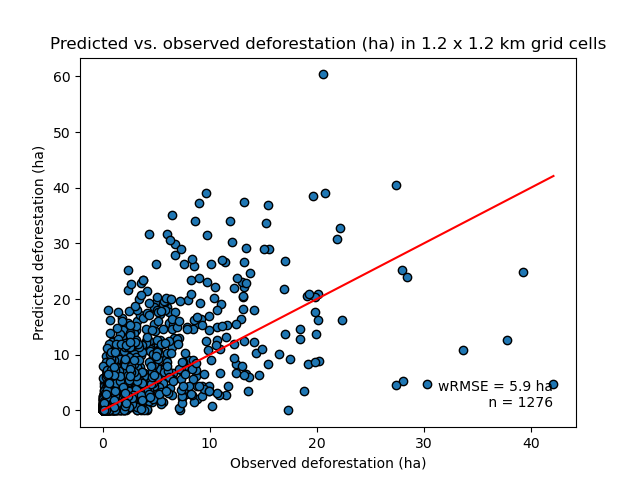
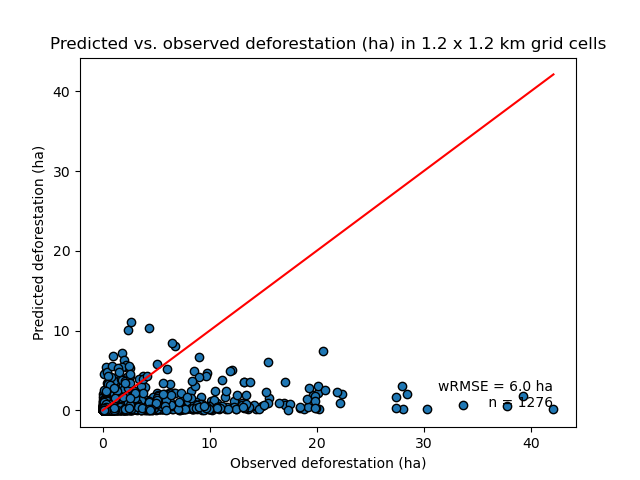
Correction defor rate website

diff --git a/docs/_modules/riskmapjnr/local_defor_rate.html b/docs/_modules/riskmapjnr/local_defor_rate.html
@@ -1,7 +1,7 @@
 
 <!DOCTYPE html>
 
-<html lang="en">
+<html>
   <head>
     <meta charset="utf-8" />
     <meta name="viewport" content="width=device-width, initial-scale=1.0" />
@@ -11,9 +11,7 @@
     <script data-url_root="../../" id="documentation_options" src="../../_static/documentation_options.js"></script>
     <script src="../../_static/jquery.js"></script>
     <script src="../../_static/underscore.js"></script>
-    <script src="../../_static/_sphinx_javascript_frameworks_compat.js"></script>
     <script src="../../_static/doctools.js"></script>
-    <script crossorigin="anonymous" integrity="sha256-Ae2Vz/4ePdIu6ZyI/5ZGsYnb+m0JlOmKPjt6XZ9JJkA=" src="https://cdnjs.cloudflare.com/ajax/libs/require.js/2.3.4/require.min.js"></script>
     <link rel="shortcut icon" href="../../_static/favicon.ico"/>
     <link rel="index" title="Index" href="../../genindex.html" />
     <link rel="search" title="Search" href="../../search.html" />
@@ -57,6 +55,7 @@
 <ul>
 <li class="toctree-l1"><a class="reference internal" href="../../index.html">Home</a></li>
 <li class="toctree-l1"><a class="reference internal" href="../../notebooks/get_started.html">Get Started</a></li>
+<li class="toctree-l1"><a class="reference internal" href="../../articles.html">Articles</a></li>
 <li class="toctree-l1"><a class="reference internal" href="../../reference.html">Python API</a></li>
 <li class="toctree-l1"><a class="reference internal" href="../../indices.html">Indices and tables</a></li>
 <li class="toctree-l1"><a class="reference internal" href="../../changelog.html">Changelog</a></li>
@@ -81,7 +80,7 @@
     </form>
     </div>
 </div>
-<script>document.getElementById('searchbox').style.display = "block"</script>
+<script>$('#searchbox').show(0);</script>
 
 
 
@@ -121,7 +120,7 @@
 
 
 <span class="c1"># local_defor_rate</span>
-<div class="viewcode-block" id="local_defor_rate"><a class="viewcode-back" href="../../reference.html#riskmapjnr.local_defor_rate.local_defor_rate">[docs]</a><span class="k">def</span> <span class="nf">local_defor_rate</span><span class="p">(</span><span class="n">fcc_file</span><span class="p">,</span> <span class="n">defor_values</span><span class="p">,</span> <span class="n">ldefrate_file</span><span class="p">,</span> <span class="n">win_size</span><span class="p">,</span>
+<div class="viewcode-block" id="local_defor_rate"><a class="viewcode-back" href="../../reference.html#riskmapjnr.local_defor_rate">[docs]</a><span class="k">def</span> <span class="nf">local_defor_rate</span><span class="p">(</span><span class="n">fcc_file</span><span class="p">,</span> <span class="n">defor_values</span><span class="p">,</span> <span class="n">ldefrate_file</span><span class="p">,</span> <span class="n">win_size</span><span class="p">,</span>
                      <span class="n">time_interval</span><span class="p">,</span> <span class="n">blk_rows</span><span class="o">=</span><span class="mi">128</span><span class="p">,</span> <span class="n">verbose</span><span class="o">=</span><span class="kc">True</span><span class="p">):</span>
     <span class="sd">&quot;&quot;&quot;Computing the local deforestation rate using a moving window.</span>
 
@@ -219,26 +218,29 @@
 
         <span class="c1"># Read block data</span>
         <span class="n">in_data</span> <span class="o">=</span> <span class="n">in_band</span><span class="o">.</span><span class="n">ReadAsArray</span><span class="p">(</span><span class="mi">0</span><span class="p">,</span> <span class="n">yoff</span><span class="p">,</span> <span class="n">xsize</span><span class="p">,</span> <span class="n">rows</span><span class="p">)</span>
-        <span class="c1"># defor (during first period)</span>
+        <span class="c1"># defor (during period)</span>
         <span class="n">defor_data</span> <span class="o">=</span> <span class="n">np</span><span class="o">.</span><span class="n">zeros</span><span class="p">(</span><span class="n">in_data</span><span class="o">.</span><span class="n">shape</span><span class="p">,</span> <span class="nb">int</span><span class="p">)</span>
         <span class="n">defor_data</span><span class="p">[</span><span class="n">np</span><span class="o">.</span><span class="n">isin</span><span class="p">(</span><span class="n">in_data</span><span class="p">,</span> <span class="n">defor_values</span><span class="p">)]</span> <span class="o">=</span> <span class="mi">1</span>
-        <span class="n">win_defor</span> <span class="o">=</span> <span class="n">scipy</span><span class="o">.</span><span class="n">ndimage</span><span class="o">.</span><span class="n">filters</span><span class="o">.</span><span class="n">uniform_filter</span><span class="p">(</span>
+        <span class="c1"># Use uniform filter to get the mean then multiply to obtain the sum</span>
+        <span class="n">win_defor</span> <span class="o">=</span> <span class="n">scipy</span><span class="o">.</span><span class="n">ndimage</span><span class="o">.</span><span class="n">uniform_filter</span><span class="p">(</span>
             <span class="n">defor_data</span><span class="p">,</span> <span class="n">size</span><span class="o">=</span><span class="n">win_size</span><span class="p">,</span> <span class="n">mode</span><span class="o">=</span><span class="s2">&quot;constant&quot;</span><span class="p">,</span> <span class="n">cval</span><span class="o">=</span><span class="mi">0</span><span class="p">,</span>
-            <span class="n">output</span><span class="o">=</span><span class="nb">float</span><span class="p">)</span>
+            <span class="n">output</span><span class="o">=</span><span class="nb">float</span><span class="p">)</span> <span class="o">*</span> <span class="p">(</span><span class="n">win_size</span> <span class="o">**</span> <span class="mi">2</span><span class="p">)</span>
+        <span class="c1"># Round to nearest inter to remove approximation due to float precision</span>
+        <span class="n">win_defor</span> <span class="o">=</span> <span class="n">np</span><span class="o">.</span><span class="n">rint</span><span class="p">(</span><span class="n">win_defor</span><span class="p">)</span><span class="o">.</span><span class="n">astype</span><span class="p">(</span><span class="nb">int</span><span class="p">)</span>
         <span class="c1"># for (start of first period)</span>
         <span class="n">for_data</span> <span class="o">=</span> <span class="n">np</span><span class="o">.</span><span class="n">zeros</span><span class="p">(</span><span class="n">in_data</span><span class="o">.</span><span class="n">shape</span><span class="p">,</span> <span class="nb">int</span><span class="p">)</span>
         <span class="n">w</span> <span class="o">=</span> <span class="n">np</span><span class="o">.</span><span class="n">where</span><span class="p">(</span><span class="n">in_data</span> <span class="o">&gt;</span> <span class="mi">0</span><span class="p">)</span>
         <span class="n">for_data</span><span class="p">[</span><span class="n">w</span><span class="p">]</span> <span class="o">=</span> <span class="mi">1</span>
-        <span class="n">win_for</span> <span class="o">=</span> <span class="n">scipy</span><span class="o">.</span><span class="n">ndimage</span><span class="o">.</span><span class="n">filters</span><span class="o">.</span><span class="n">uniform_filter</span><span class="p">(</span>
+        <span class="c1"># Use uniform filter to get the mean then multiply to obtain the sum</span>
+        <span class="n">win_for</span> <span class="o">=</span> <span class="n">scipy</span><span class="o">.</span><span class="n">ndimage</span><span class="o">.</span><span class="n">uniform_filter</span><span class="p">(</span>
             <span class="n">for_data</span><span class="p">,</span> <span class="n">size</span><span class="o">=</span><span class="n">win_size</span><span class="p">,</span> <span class="n">mode</span><span class="o">=</span><span class="s2">&quot;constant&quot;</span><span class="p">,</span> <span class="n">cval</span><span class="o">=</span><span class="mi">0</span><span class="p">,</span>
-            <span class="n">output</span><span class="o">=</span><span class="nb">float</span><span class="p">)</span>
-        <span class="c1"># percentage</span>
+            <span class="n">output</span><span class="o">=</span><span class="nb">float</span><span class="p">)</span> <span class="o">*</span> <span class="p">(</span><span class="n">win_size</span> <span class="o">**</span> <span class="mi">2</span><span class="p">)</span>
+        <span class="c1"># Round to nearest inter to remove approximation due to float precision</span>
+        <span class="n">win_for</span> <span class="o">=</span> <span class="n">np</span><span class="o">.</span><span class="n">rint</span><span class="p">(</span><span class="n">win_for</span><span class="p">)</span><span class="o">.</span><span class="n">astype</span><span class="p">(</span><span class="nb">int</span><span class="p">)</span>
+        <span class="c1"># Annual deforestation rate</span>
         <span class="n">out_data</span> <span class="o">=</span> <span class="n">np</span><span class="o">.</span><span class="n">ones</span><span class="p">(</span><span class="n">in_data</span><span class="o">.</span><span class="n">shape</span><span class="p">,</span> <span class="nb">int</span><span class="p">)</span> <span class="o">*</span> <span class="mi">65535</span>
-        <span class="c1"># w = np.where(win_for &gt;= (1 / win_size ** 2))</span>
-        <span class="c1"># w = np.where(win_for &gt; np.finfo(float).eps)</span>
-        <span class="n">out_data</span><span class="p">[</span><span class="n">w</span><span class="p">]</span> <span class="o">=</span> <span class="n">np</span><span class="o">.</span><span class="n">rint</span><span class="p">(</span><span class="mi">10000</span> <span class="o">*</span> <span class="p">(</span><span class="mi">1</span> <span class="o">-</span> <span class="p">(</span><span class="mi">1</span> <span class="o">-</span> <span class="n">win_defor</span><span class="p">[</span><span class="n">w</span><span class="p">]</span> <span class="o">/</span> <span class="n">win_for</span><span class="p">[</span><span class="n">w</span><span class="p">])</span> <span class="o">**</span>
-                                       <span class="n">time_interval</span><span class="p">))</span><span class="o">.</span><span class="n">astype</span><span class="p">(</span><span class="nb">int</span><span class="p">)</span>
-
+        <span class="n">theta</span> <span class="o">=</span> <span class="mi">1</span> <span class="o">-</span> <span class="p">(</span><span class="mi">1</span> <span class="o">-</span> <span class="n">win_defor</span><span class="p">[</span><span class="n">w</span><span class="p">]</span> <span class="o">/</span> <span class="n">win_for</span><span class="p">[</span><span class="n">w</span><span class="p">])</span> <span class="o">**</span> <span class="p">(</span><span class="mi">1</span> <span class="o">/</span> <span class="n">time_interval</span><span class="p">)</span>
+        <span class="n">out_data</span><span class="p">[</span><span class="n">w</span><span class="p">]</span> <span class="o">=</span> <span class="n">np</span><span class="o">.</span><span class="n">rint</span><span class="p">(</span><span class="mi">10000</span> <span class="o">*</span> <span class="n">theta</span><span class="p">)</span><span class="o">.</span><span class="n">astype</span><span class="p">(</span><span class="nb">int</span><span class="p">)</span>
         <span class="k">if</span> <span class="n">yoff</span> <span class="o">==</span> <span class="mi">0</span><span class="p">:</span>
             <span class="n">out_band</span><span class="o">.</span><span class="n">WriteArray</span><span class="p">(</span><span class="n">out_data</span><span class="p">)</span>
         <span class="k">else</span><span class="p">:</span>
@@ -274,7 +276,7 @@
       &copy;2022, Ghislain Vieilledent.
       
       |
-      Powered by <a href="http://sphinx-doc.org/">Sphinx 5.0.1</a>
+      Powered by <a href="http://sphinx-doc.org/">Sphinx 4.5.0</a>
       &amp; <a href="https://github.com/bitprophet/alabaster">Alabaster 0.7.12</a>
       
     </div>

diff --git a/docs/_modules/riskmapjnr/validation.html b/docs/_modules/riskmapjnr/validation.html
@@ -1,7 +1,7 @@
 
 <!DOCTYPE html>
 
-<html lang="en">
+<html>
   <head>
     <meta charset="utf-8" />
     <meta name="viewport" content="width=device-width, initial-scale=1.0" />
@@ -11,9 +11,7 @@
     <script data-url_root="../../" id="documentation_options" src="../../_static/documentation_options.js"></script>
     <script src="../../_static/jquery.js"></script>
     <script src="../../_static/underscore.js"></script>
-    <script src="../../_static/_sphinx_javascript_frameworks_compat.js"></script>
     <script src="../../_static/doctools.js"></script>
-    <script crossorigin="anonymous" integrity="sha256-Ae2Vz/4ePdIu6ZyI/5ZGsYnb+m0JlOmKPjt6XZ9JJkA=" src="https://cdnjs.cloudflare.com/ajax/libs/require.js/2.3.4/require.min.js"></script>
     <link rel="shortcut icon" href="../../_static/favicon.ico"/>
     <link rel="index" title="Index" href="../../genindex.html" />
     <link rel="search" title="Search" href="../../search.html" />
@@ -57,6 +55,7 @@
 <ul>
 <li class="toctree-l1"><a class="reference internal" href="../../index.html">Home</a></li>
 <li class="toctree-l1"><a class="reference internal" href="../../notebooks/get_started.html">Get Started</a></li>
+<li class="toctree-l1"><a class="reference internal" href="../../articles.html">Articles</a></li>
 <li class="toctree-l1"><a class="reference internal" href="../../reference.html">Python API</a></li>
 <li class="toctree-l1"><a class="reference internal" href="../../indices.html">Indices and tables</a></li>
 <li class="toctree-l1"><a class="reference internal" href="../../changelog.html">Changelog</a></li>
@@ -81,7 +80,7 @@
     </form>
     </div>
 </div>
-<script>document.getElementById('searchbox').style.display = "block"</script>
+<script>$('#searchbox').show(0);</script>
 
 
 
@@ -147,7 +146,7 @@
 <span class="sd">        period. No data value must be 0 (zero).</span>
 
 <span class="sd">    :param time_interval: Time interval (in years) for forest cover</span>
-<span class="sd">        change observations.</span>
+<span class="sd">        change observations during the **validation** period.</span>
 
 <span class="sd">    :param riskmap_file: Input raster file with categories of</span>
 <span class="sd">        spatial deforestation risk. This file is typically obtained</span>
@@ -256,8 +255,12 @@
             <span class="n">x</span><span class="p">[</span><span class="n">px</span><span class="p">],</span> <span class="n">y</span><span class="p">[</span><span class="n">py</span><span class="p">],</span> <span class="n">nx</span><span class="p">[</span><span class="n">px</span><span class="p">],</span> <span class="n">ny</span><span class="p">[</span><span class="n">py</span><span class="p">])</span>
         <span class="n">defor_cat</span> <span class="o">=</span> <span class="n">pd</span><span class="o">.</span><span class="n">Categorical</span><span class="p">(</span><span class="n">defor_cat_data</span><span class="o">.</span><span class="n">flatten</span><span class="p">(),</span> <span class="n">categories</span><span class="o">=</span><span class="n">cat</span><span class="p">)</span>
         <span class="n">defor_cat_count</span> <span class="o">=</span> <span class="n">defor_cat</span><span class="o">.</span><span class="n">value_counts</span><span class="p">()</span><span class="o">.</span><span class="n">values</span>
+        <span class="c1"># Deforestation rate on validation period</span>
+        <span class="n">defrate_per_cat_period</span> <span class="o">=</span> <span class="p">(</span>
+            <span class="mi">1</span> <span class="o">-</span> <span class="p">(</span><span class="mi">1</span> <span class="o">-</span> <span class="n">defrate_per_cat</span><span class="p">[</span><span class="s2">&quot;rate&quot;</span><span class="p">]</span><span class="o">.</span><span class="n">values</span><span class="p">)</span> <span class="o">**</span> <span class="n">time_interval</span><span class="p">)</span>
+        <span class="c1"># Predicted deforestation (area)</span>
         <span class="n">df</span><span class="o">.</span><span class="n">loc</span><span class="p">[</span><span class="n">s</span><span class="p">,</span> <span class="s2">&quot;ndefor_pred&quot;</span><span class="p">]</span> <span class="o">=</span> <span class="n">np</span><span class="o">.</span><span class="n">nansum</span><span class="p">(</span><span class="n">defor_cat_count</span> <span class="o">*</span>
-                                             <span class="n">defrate_per_cat</span><span class="p">[</span><span class="s2">&quot;rate&quot;</span><span class="p">]</span><span class="o">.</span><span class="n">values</span><span class="p">)</span>
+                                             <span class="n">defrate_per_cat_period</span><span class="p">)</span>
         <span class="c1"># Note: np.nansum is used here as some cat might not exist and</span>
         <span class="c1"># have nan for defrate (eg. in the case of Equal Interval).</span>
 
@@ -349,7 +352,7 @@
       &copy;2022, Ghislain Vieilledent.
       
       |
-      Powered by <a href="http://sphinx-doc.org/">Sphinx 5.0.1</a>
+      Powered by <a href="http://sphinx-doc.org/">Sphinx 4.5.0</a>
       &amp; <a href="https://github.com/bitprophet/alabaster">Alabaster 0.7.12</a>
       
     </div>

diff --git a/docs/_modules/riskmapjnr/defrate_per_cat.html b/docs/_modules/riskmapjnr/defrate_per_cat.html
@@ -1,7 +1,7 @@
 
 <!DOCTYPE html>
 
-<html lang="en">
+<html>
   <head>
     <meta charset="utf-8" />
     <meta name="viewport" content="width=device-width, initial-scale=1.0" />
@@ -11,9 +11,7 @@
     <script data-url_root="../../" id="documentation_options" src="../../_static/documentation_options.js"></script>
     <script src="../../_static/jquery.js"></script>
     <script src="../../_static/underscore.js"></script>
-    <script src="../../_static/_sphinx_javascript_frameworks_compat.js"></script>
     <script src="../../_static/doctools.js"></script>
-    <script crossorigin="anonymous" integrity="sha256-Ae2Vz/4ePdIu6ZyI/5ZGsYnb+m0JlOmKPjt6XZ9JJkA=" src="https://cdnjs.cloudflare.com/ajax/libs/require.js/2.3.4/require.min.js"></script>
     <link rel="shortcut icon" href="../../_static/favicon.ico"/>
     <link rel="index" title="Index" href="../../genindex.html" />
     <link rel="search" title="Search" href="../../search.html" />
@@ -57,6 +55,7 @@
 <ul>
 <li class="toctree-l1"><a class="reference internal" href="../../index.html">Home</a></li>
 <li class="toctree-l1"><a class="reference internal" href="../../notebooks/get_started.html">Get Started</a></li>
+<li class="toctree-l1"><a class="reference internal" href="../../articles.html">Articles</a></li>
 <li class="toctree-l1"><a class="reference internal" href="../../reference.html">Python API</a></li>
 <li class="toctree-l1"><a class="reference internal" href="../../indices.html">Indices and tables</a></li>
 <li class="toctree-l1"><a class="reference internal" href="../../changelog.html">Changelog</a></li>
@@ -81,7 +80,7 @@
     </form>
     </div>
 </div>
-<script>document.getElementById('searchbox').style.display = "block"</script>
+<script>$('#searchbox').show(0);</script>
 
 
 
@@ -219,7 +218,7 @@
         <span class="n">df</span><span class="p">[</span><span class="s2">&quot;ndefor&quot;</span><span class="p">]</span> <span class="o">+=</span> <span class="n">cat_defor</span><span class="o">.</span><span class="n">value_counts</span><span class="p">()</span><span class="o">.</span><span class="n">values</span>
 
     <span class="c1"># Annual deforestation rates per category</span>
-    <span class="n">df</span><span class="p">[</span><span class="s2">&quot;rate&quot;</span><span class="p">]</span> <span class="o">=</span> <span class="mi">1</span> <span class="o">-</span> <span class="p">(</span><span class="mi">1</span> <span class="o">-</span> <span class="n">df</span><span class="p">[</span><span class="s2">&quot;ndefor&quot;</span><span class="p">]</span> <span class="o">/</span> <span class="n">df</span><span class="p">[</span><span class="s2">&quot;nfor&quot;</span><span class="p">])</span> <span class="o">**</span> <span class="n">time_interval</span>
+    <span class="n">df</span><span class="p">[</span><span class="s2">&quot;rate&quot;</span><span class="p">]</span> <span class="o">=</span> <span class="mi">1</span> <span class="o">-</span> <span class="p">(</span><span class="mi">1</span> <span class="o">-</span> <span class="n">df</span><span class="p">[</span><span class="s2">&quot;ndefor&quot;</span><span class="p">]</span> <span class="o">/</span> <span class="n">df</span><span class="p">[</span><span class="s2">&quot;nfor&quot;</span><span class="p">])</span> <span class="o">**</span> <span class="p">(</span><span class="mi">1</span> <span class="o">/</span> <span class="n">time_interval</span><span class="p">)</span>
 
     <span class="c1"># Export the table of results</span>
     <span class="n">df</span><span class="o">.</span><span class="n">to_csv</span><span class="p">(</span><span class="n">tab_file_defrate</span><span class="p">,</span> <span class="n">sep</span><span class="o">=</span><span class="s2">&quot;,&quot;</span><span class="p">,</span> <span class="n">header</span><span class="o">=</span><span class="kc">True</span><span class="p">,</span>
@@ -258,7 +257,7 @@
       &copy;2022, Ghislain Vieilledent.
       
       |
-      Powered by <a href="http://sphinx-doc.org/">Sphinx 5.0.1</a>
+      Powered by <a href="http://sphinx-doc.org/">Sphinx 4.5.0</a>
       &amp; <a href="https://github.com/bitprophet/alabaster">Alabaster 0.7.12</a>
       
     </div>

diff --git a/docs/_modules/riskmapjnr/makemap.html b/docs/_modules/riskmapjnr/makemap.html
@@ -1,7 +1,7 @@
 
 <!DOCTYPE html>
 
-<html lang="en">
+<html>
   <head>
     <meta charset="utf-8" />
     <meta name="viewport" content="width=device-width, initial-scale=1.0" />
@@ -11,9 +11,7 @@
     <script data-url_root="../../" id="documentation_options" src="../../_static/documentation_options.js"></script>
     <script src="../../_static/jquery.js"></script>
     <script src="../../_static/underscore.js"></script>
-    <script src="../../_static/_sphinx_javascript_frameworks_compat.js"></script>
     <script src="../../_static/doctools.js"></script>
-    <script crossorigin="anonymous" integrity="sha256-Ae2Vz/4ePdIu6ZyI/5ZGsYnb+m0JlOmKPjt6XZ9JJkA=" src="https://cdnjs.cloudflare.com/ajax/libs/require.js/2.3.4/require.min.js"></script>
     <link rel="shortcut icon" href="../../_static/favicon.ico"/>
     <link rel="index" title="Index" href="../../genindex.html" />
     <link rel="search" title="Search" href="../../search.html" />
@@ -82,7 +80,7 @@
     </form>
     </div>
 </div>
-<script>document.getElementById('searchbox').style.display = "block"</script>
+<script>$('#searchbox').show(0);</script>
 
 
 
@@ -239,7 +237,7 @@
 <span class="sd">        period. No data value must be 0 (zero).</span>
 
 <span class="sd">    :param time_interval: A list of two numbers. Time interval (in</span>
-<span class="sd">        years) for forest cover change observations for the two period</span>
+<span class="sd">        years) for forest cover change observations for the two periods</span>
 <span class="sd">        of time.</span>
 
 <span class="sd">    :param output_dir: Output directory for files (rasters, tables, and</span>
@@ -552,7 +550,7 @@
         <span class="n">fcc_file</span><span class="p">,</span>
         <span class="n">defor_values</span><span class="o">=</span><span class="p">[</span><span class="mi">1</span><span class="p">,</span> <span class="mi">2</span><span class="p">],</span>
         <span class="n">riskmap_file</span><span class="o">=</span><span class="n">riskmap_file</span><span class="p">,</span>
-        <span class="n">time_interval</span><span class="o">=</span><span class="n">time_interval</span><span class="p">[</span><span class="mi">0</span><span class="p">],</span>
+        <span class="n">time_interval</span><span class="o">=</span><span class="n">np</span><span class="o">.</span><span class="n">array</span><span class="p">(</span><span class="n">time_interval</span><span class="p">)</span><span class="o">.</span><span class="n">sum</span><span class="p">(),</span>
         <span class="n">tab_file_defrate</span><span class="o">=</span><span class="n">tab_file_defrate</span><span class="p">,</span>
         <span class="n">blk_rows</span><span class="o">=</span><span class="n">blk_rows</span><span class="p">,</span>
         <span class="n">verbose</span><span class="o">=</span><span class="kc">False</span><span class="p">)</span>
@@ -603,7 +601,7 @@
       &copy;2022, Ghislain Vieilledent.
       
       |
-      Powered by <a href="http://sphinx-doc.org/">Sphinx 5.0.1</a>
+      Powered by <a href="http://sphinx-doc.org/">Sphinx 4.5.0</a>
       &amp; <a href="https://github.com/bitprophet/alabaster">Alabaster 0.7.12</a>
       
     </div>

diff --git a/docs/notebooks/steps.html b/docs/notebooks/steps.html
@@ -287,7 +287,7 @@
 </div>
 <div class="section" id="local-deforestation-rate">
 <h2>3 Local deforestation rate<a class="headerlink" href="#local-deforestation-rate" title="Permalink to this headline">¶</a></h2>
-<p>The second step is to compute a local risk of deforestation at the pixel level using a moving window made of several pixels. The deforestation risk is estimated from the deforestation rate inside the moving window. The deforestation rate <span class="math notranslate nohighlight">\(\theta\)</span> (in %/yr) is computed from the formula <span class="math notranslate nohighlight">\(\theta=(\alpha_2/\alpha_1)^{1/\tau}-1\)</span>, with <span class="math notranslate nohighlight">\(\alpha\)</span> the forest areas (in ha) at time <span class="math notranslate nohighlight">\(t_1\)</span> and <span class="math notranslate nohighlight">\(t_2\)</span>, and <span class="math notranslate nohighlight">\(\tau\)</span>, the time interval (in yr) between time <span class="math notranslate nohighlight">\(t_1\)</span> and <span class="math notranslate nohighlight">\(t_2\)</span>. Using the deforestation rate formula, the moving window and the past forest cover change map, we can derive a raster map describing the local risk of deforestation at the same resolution as the input map.</p>
+<p>The second step is to compute a local risk of deforestation at the pixel level using a moving window made of several pixels. The deforestation risk is estimated from the deforestation rate inside the moving window. The deforestation rate <span class="math notranslate nohighlight">\(\theta\)</span> (in %/yr) is computed from the formula <span class="math notranslate nohighlight">\(\theta=1-(\alpha_2/\alpha_1)^{1/\tau}\)</span>, with <span class="math notranslate nohighlight">\(\alpha\)</span> the forest areas (in ha) at time <span class="math notranslate nohighlight">\(t_1\)</span> and <span class="math notranslate nohighlight">\(t_2\)</span>, and <span class="math notranslate nohighlight">\(\tau\)</span>, the time interval (in yr) between time <span class="math notranslate nohighlight">\(t_1\)</span> and <span class="math notranslate nohighlight">\(t_2\)</span>. Using the deforestation rate formula, the moving window and the past forest cover change map, we can derive a raster map describing the local risk of deforestation at the same resolution as the input map.</p>
 <p>To save space on disk, deforestation rates are converted to integer values between 0 and 10000 (ten thousand) and the raster type is set to UInt16. This ensures a precision of 10<sup>-4</sup>for the deforestation rate which is sufficient to determine the 30 categories of deforestation risk, as imposed by the JNR methodology.</p>
 <div class="highlight-python notranslate"><div class="highlight"><pre><span></span><span class="c1"># Set window size</span>
 <span class="n">s</span> <span class="o">=</span> <span class="mi">5</span>

diff --git a/docs/reference.html b/docs/reference.html
@@ -310,7 +310,7 @@ dates (123). 1: first period deforestation, 2: second period
 deforestation, 3: remaining forest at the end of the second
 period. No data value must be 0 (zero).</p></li>
 <li><p><strong>time_interval</strong> – A list of two numbers. Time interval (in
-years) for forest cover change observations for the two period
+years) for forest cover change observations for the two periods
 of time.</p></li>
 <li><p><strong>output_dir</strong> – <p>Output directory for files (rasters, tables, and
 figures) produced by calling the <code class="docutils literal notranslate"><span class="pre">makemap()</span></code> function:</p>
@@ -478,7 +478,7 @@ dates (123). 1: first period deforestation, 2: second period
 deforestation, 3: remaining forest at the end of the second
 period. No data value must be 0 (zero).</p></li>
 <li><p><strong>time_interval</strong> – Time interval (in years) for forest cover
-change observations.</p></li>
+change observations during the <strong>validation</strong> period.</p></li>
 <li><p><strong>riskmap_file</strong> – Input raster file with categories of
 spatial deforestation risk. This file is typically obtained
 with function <code class="docutils literal notranslate"><span class="pre">defor_cat()</span></code>.</p></li>

diff --git a/docs/_static/pygments.css b/docs/_static/pygments.css
@@ -54,6 +54,7 @@ span.linenos.special { color: #000000; background-color: #ffffc0; padding-left: 
 .highlight .nt { color: #004461; font-weight: bold } /* Name.Tag */
 .highlight .nv { color: #000000 } /* Name.Variable */
 .highlight .ow { color: #004461; font-weight: bold } /* Operator.Word */
+.highlight .pm { color: #000000; font-weight: bold } /* Punctuation.Marker */
 .highlight .w { color: #f8f8f8; text-decoration: underline } /* Text.Whitespace */
 .highlight .mb { color: #990000 } /* Literal.Number.Bin */
 .highlight .mf { color: #990000 } /* Literal.Number.Float */

diff --git a/docsrc/notebooks/steps.rst b/docsrc/notebooks/steps.rst
@@ -160,7 +160,7 @@ A table indicating the cumulative percentage of deforestation as a function of t
 3 Local deforestation rate
 --------------------------
 
-The second step is to compute a local risk of deforestation at the pixel level using a moving window made of several pixels. The deforestation risk is estimated from the deforestation rate inside the moving window. The deforestation rate :math:`\theta` (in %/yr) is computed from the formula :math:`\theta=(\alpha_2/\alpha_1)^{1/\tau}-1`, with :math:`\alpha` the forest areas (in ha) at time :math:`t_1` and :math:`t_2`, and :math:`\tau`, the time interval (in yr) between time :math:`t_1` and :math:`t_2`. Using the deforestation rate formula, the moving window and the past forest cover change map, we can derive a raster map describing the local risk of deforestation at the same resolution as the input map.
+The second step is to compute a local risk of deforestation at the pixel level using a moving window made of several pixels. The deforestation risk is estimated from the deforestation rate inside the moving window. The deforestation rate :math:`\theta` (in %/yr) is computed from the formula :math:`\theta=1-(\alpha_2/\alpha_1)^{1/\tau}`, with :math:`\alpha` the forest areas (in ha) at time :math:`t_1` and :math:`t_2`, and :math:`\tau`, the time interval (in yr) between time :math:`t_1` and :math:`t_2`. Using the deforestation rate formula, the moving window and the past forest cover change map, we can derive a raster map describing the local risk of deforestation at the same resolution as the input map.
 
 To save space on disk, deforestation rates are converted to integer values between 0 and 10000 (ten thousand) and the raster type is set to UInt16. This ensures a precision of 10\ :sup:`-4`\ for the deforestation rate which is sufficient to determine the 30 categories of deforestation risk, as imposed by the JNR methodology.
 
